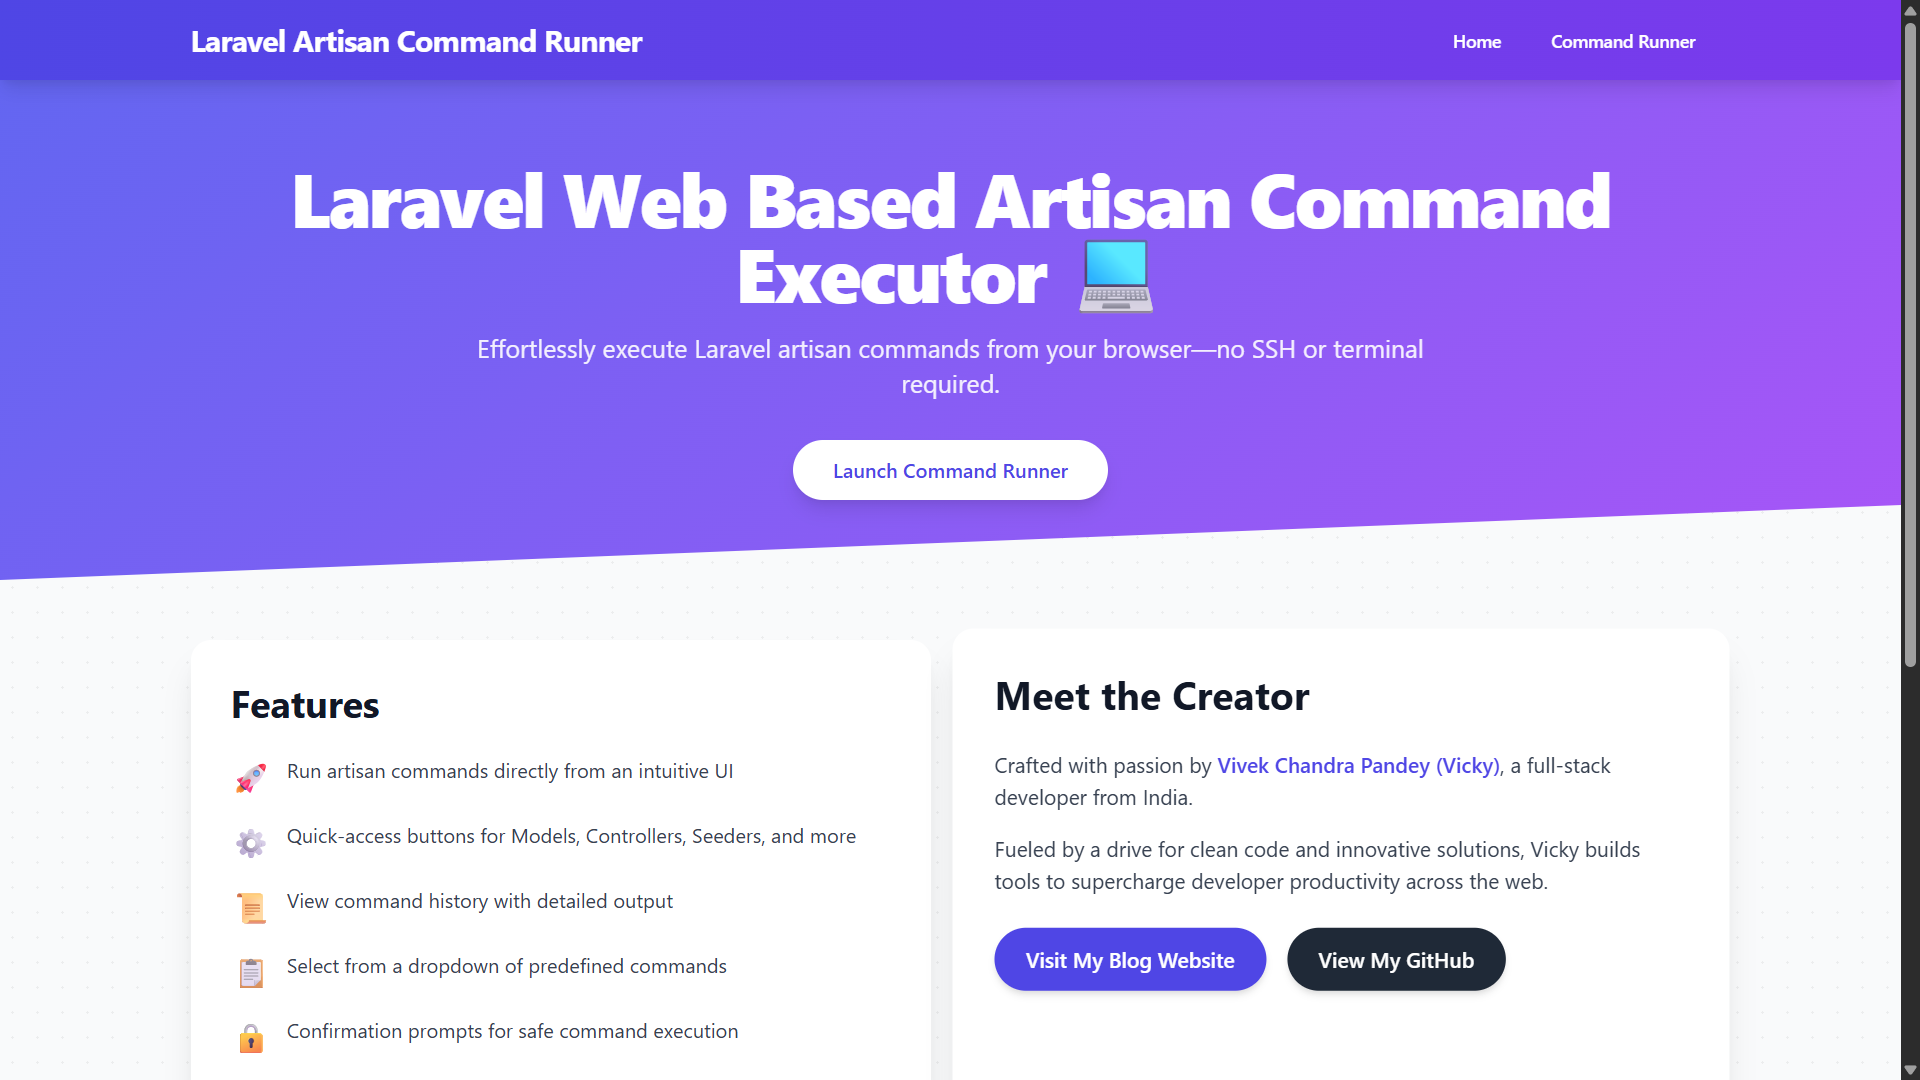
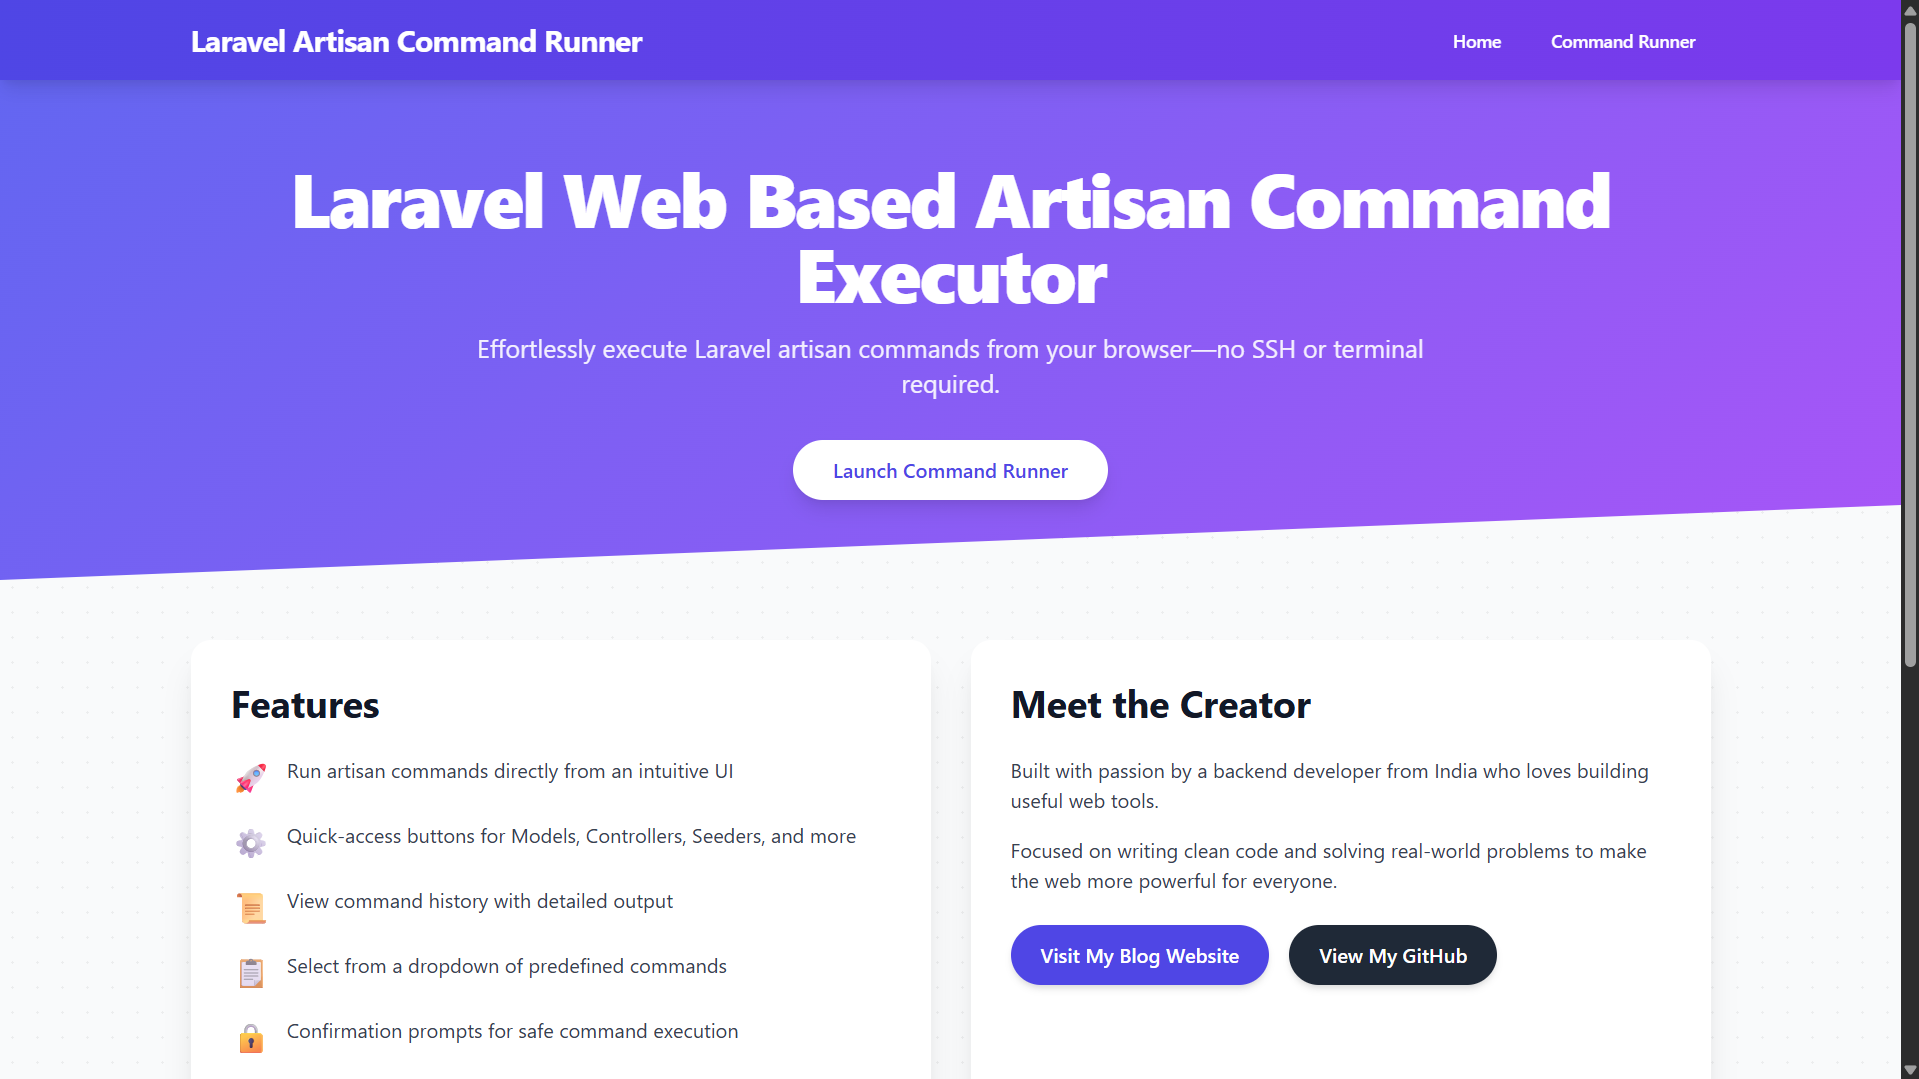
home page updated and project home page screenshot updated

diff --git a/resources/views/home.blade.php b/resources/views/home.blade.php
@@ -33,7 +33,7 @@
 
 <div class="hero-bg text-white py-16">
     <div class="max-w-7xl mx-auto px-4 sm:px-6 lg:px-8 text-center">
-        <h1 class="text-4xl sm:text-6xl font-extrabold mb-4 tracking-tight animate-fade-in">Laravel Web Based Artisan Command Executor 💻</h1>
+        <h1 class="text-4xl sm:text-6xl font-extrabold mb-4 tracking-tight animate-fade-in">Laravel Web Based Artisan Command Executor</h1>
         <p class="text-lg sm:text-xl max-w-3xl mx-auto mb-8 opacity-90">Effortlessly execute Laravel artisan commands from your browser—no SSH or terminal required.</p>
         <a href="{{ route('command-runner.index') }}" class="btn-primary inline-block bg-white text-indigo-600 font-semibold px-8 py-3 rounded-full shadow-lg hover:bg-gray-100 transition duration-150">Launch Command Runner</a>
     </div>

diff --git a/routes/web.php b/routes/web.php
@@ -4,7 +4,11 @@ use App\Http\Controllers\CommandRunnerController;
 use App\Http\Controllers\HomeController;
 use Illuminate\Support\Facades\Route;
 
-Route::get('/', [HomeController::class, 'index'])->name('home');
+
+Route::controller(HomeController::class)->group(function () 
+{    
+    Route::get('/', 'index')->name('home');
+});
 
 Route::controller(CommandRunnerController::class)->group(function () 
 {    
